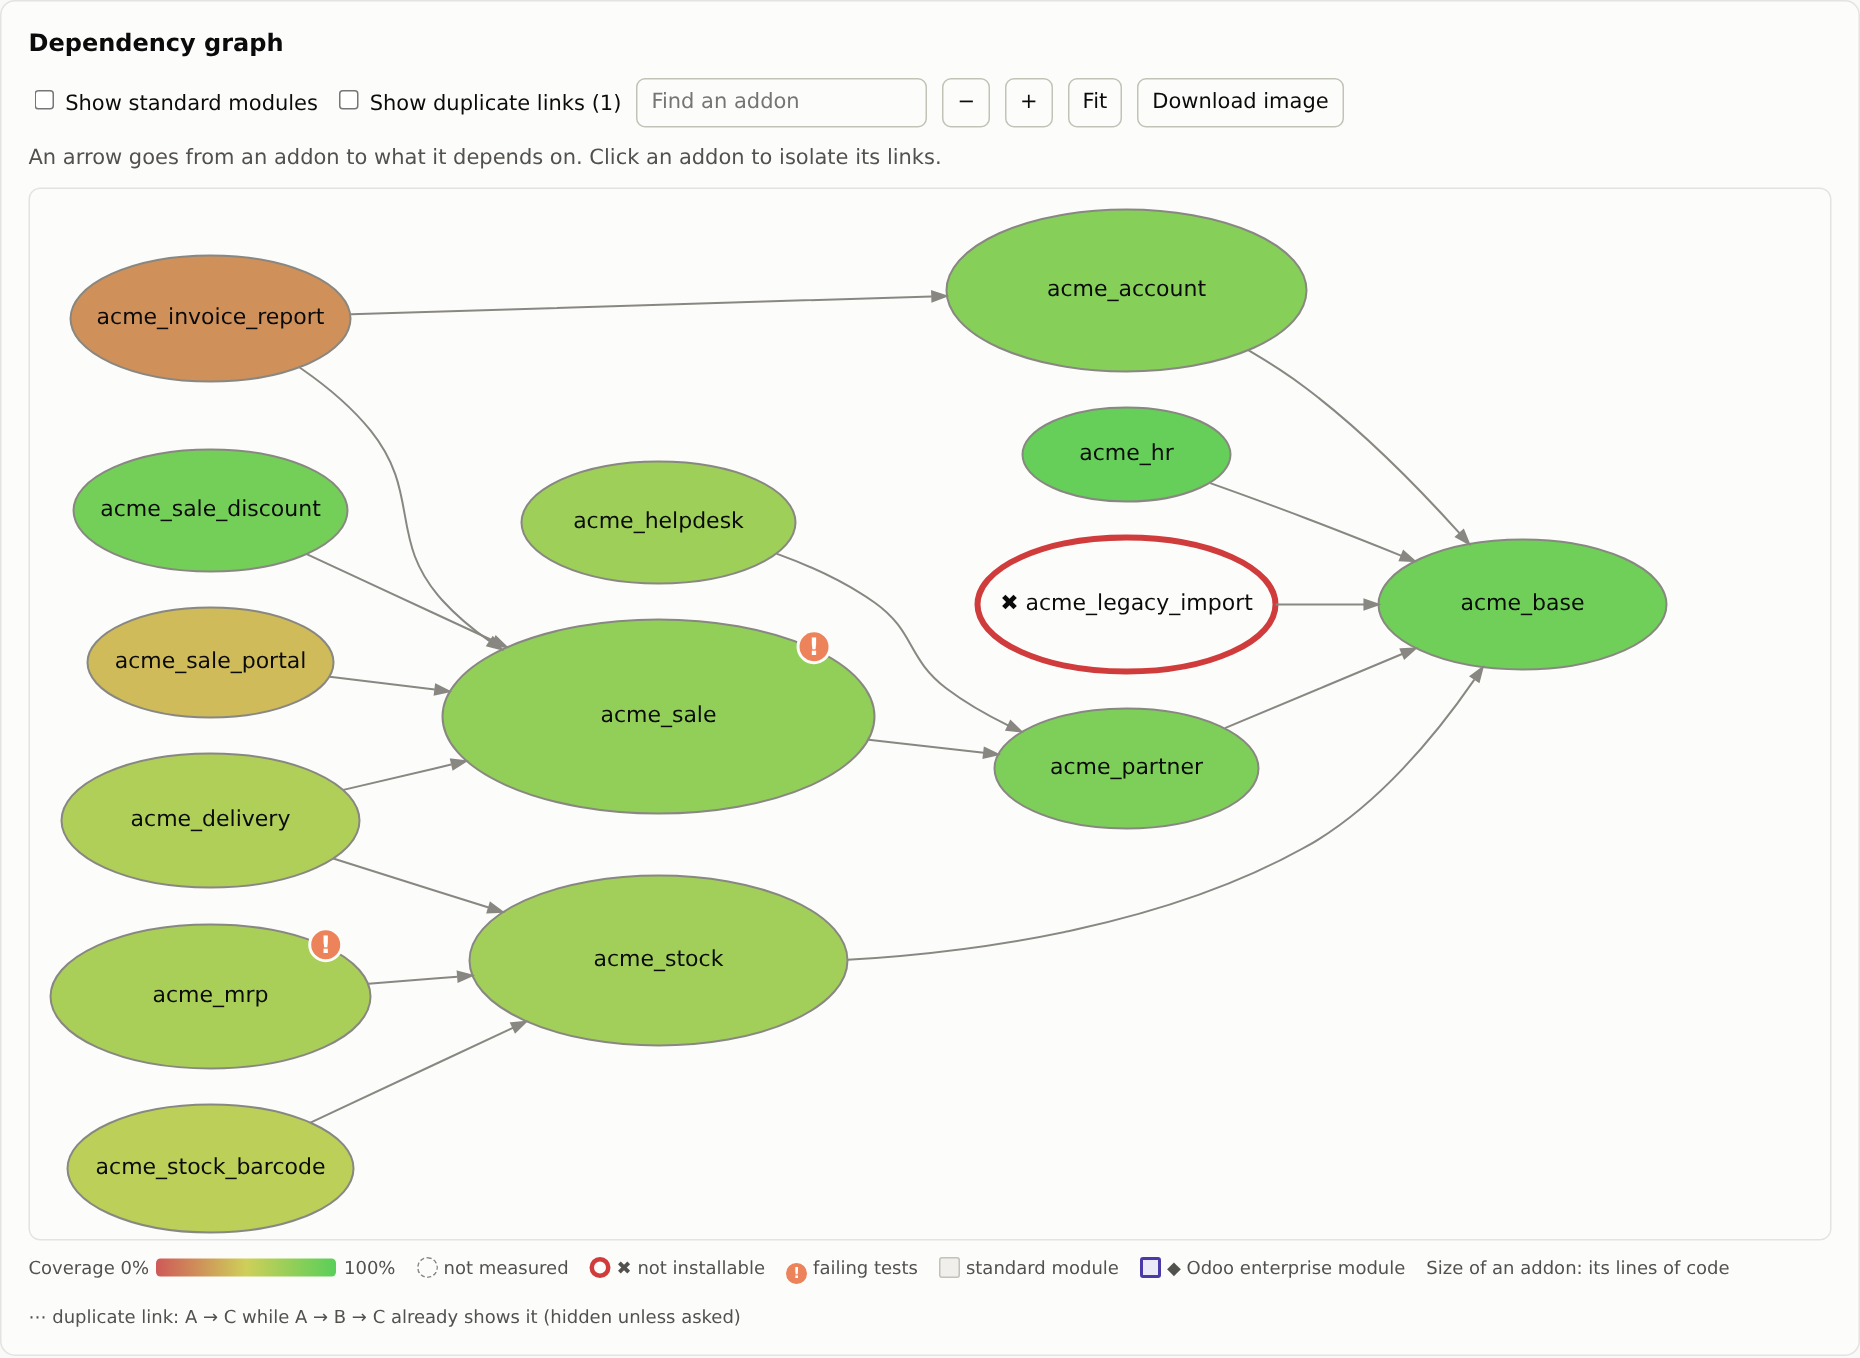
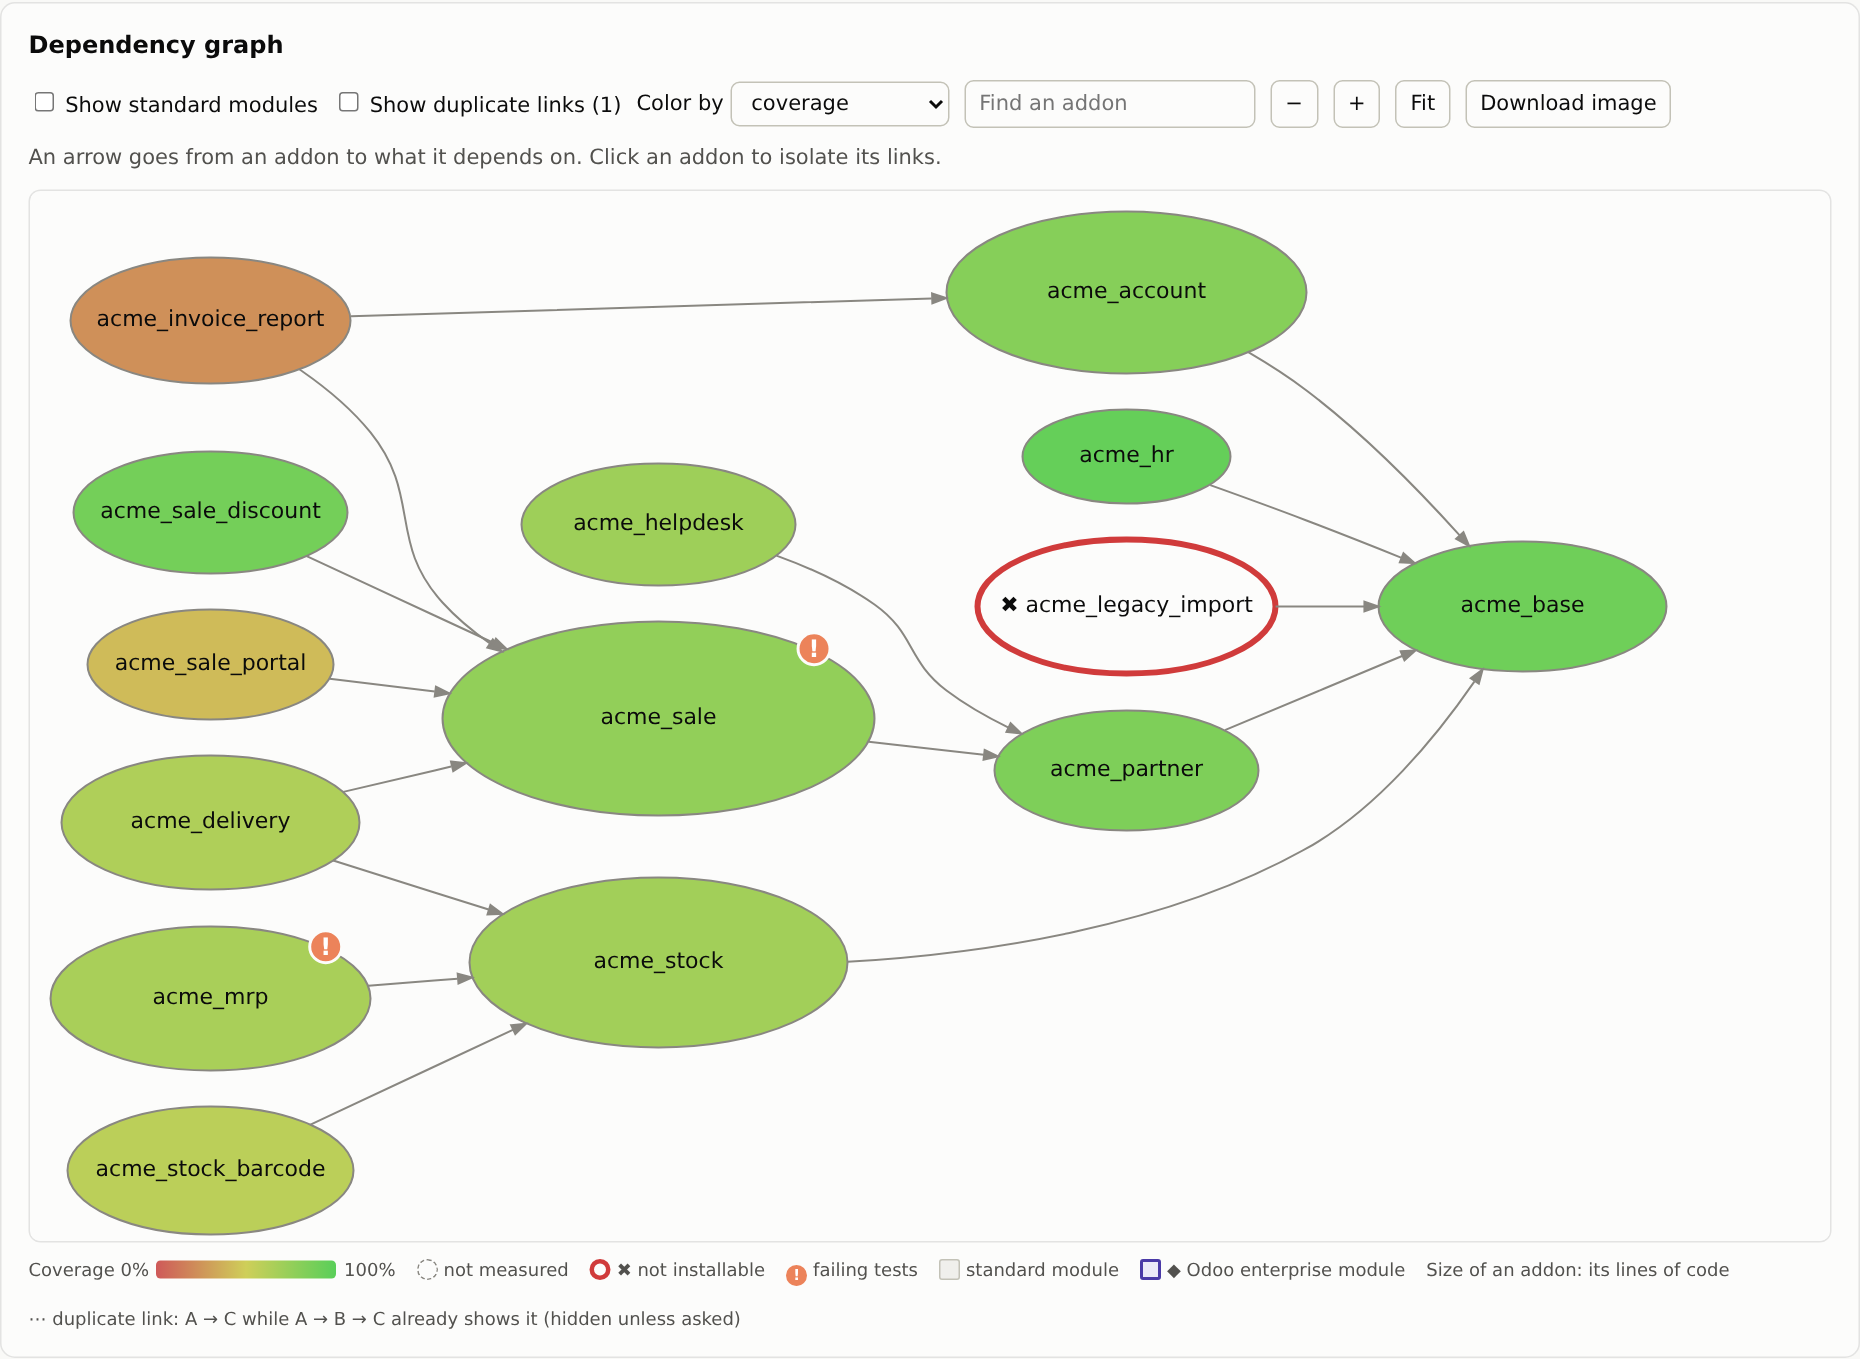
report: the dependency graph colored by the mutation score, on demand
Once jsa mutation was run, "Color by" offers the mutation score of all the changes
instead of the coverage (the default), with the same colors; an addon never run by
jsa mutation stays blank. The tooltip gives both mutation scores. 0.42.0.

diff --git a/jsa/structure/report_html.py b/jsa/structure/report_html.py
@@ -171,7 +171,7 @@ if (table) {
   search.addEventListener('input', filter); only.addEventListener('change', filter);
 }
 // ----- graph (graphviz names its root group "graph": the container is "depgraph", the styled svg is "dg")
-const SVG = 'http://www.w3.org/2000/svg', DUPLICATES = new Set(D.duplicates);
+const SVG = 'http://www.w3.org/2000/svg', DUPLICATES = new Set(D.duplicates), painted = [];  // [ellipse, addon]
 document.querySelectorAll('.depgraph').forEach(box => {
   const svg = box.querySelector('svg'), nodes = {}, edges = [];
   svg.classList.add('dg');
@@ -187,7 +187,7 @@ document.querySelectorAll('.depgraph').forEach(box => {
     }
     g.classList.add(a.status);
     const shape = g.querySelector('ellipse'), text = g.querySelector('text');
-    if (a.color) shape.style.fill = a.color;  // coverage: red -> green
+    painted.push([shape, a]);  // filled by its coverage, or its mutation score: red -> green (see paint)
     if (a.status === 'not_installable') text.textContent = '✖ ' + text.textContent;
     if (a.status === 'failing') {  // a flag on the addon, its color still shows the coverage
       const flag = document.createElementNS(SVG, 'g'), dot = document.createElementNS(SVG, 'circle'), mark = document.createElementNS(SVG, 'text');
@@ -228,6 +228,8 @@ document.querySelectorAll('.depgraph').forEach(box => {
   };
   box.zoom(0);
 });
+const paint = by => painted.forEach(([shape, a]) => shape.style.fill = a[by] || '');  // none: not measured
+paint('color');
 // ----- security review, mutation testing: the lines to copy into reviewed.toml
 document.querySelectorAll('button.copy').forEach(btn => btn.addEventListener('click', () => {
   const text = btn.dataset.copy, label = btn.textContent;
@@ -259,6 +261,13 @@ if (std) {
     document.getElementById('dupcount').textContent = ` (${count})`;
   };
   std.addEventListener('change', show); dup.addEventListener('change', show); show();
+  const colorby = document.getElementById('colorby');
+  if (colorby) colorby.addEventListener('change', () => {
+    const chosen = colorby.selectedOptions[0];
+    paint(colorby.value);
+    document.getElementById('colorname').textContent = chosen.dataset.name;
+    document.getElementById('colornone').textContent = chosen.dataset.none;
+  });
   document.getElementById('gsearch').addEventListener('input', e => graphs().forEach(b => b.find(e.target.value.trim().toLowerCase())));
   document.querySelectorAll('[data-zoom]').forEach(btn => btn.addEventListener('click', () => graphs().forEach(b => b.zoom(parseFloat(btn.dataset.zoom)))));
   // the graph as shown (standard modules or not, current selection) as a PNG image, twice its size to stay sharp
@@ -339,8 +348,8 @@ def _tests_html(entry: dict, newly: int = 0) -> str:
     return main + line
 
 
-def _tip(entry: dict) -> str:
-    """Tooltip of an addon in the graph."""
+def _tip(entry: dict, mutation: Optional[dict] = None) -> str:
+    """Tooltip of an addon in the graph. mutation: the result of its last jsa mutation."""
     state = report.status(entry)
     parts = [STATUS[state][0].lower()]
     if isinstance(entry.get('coverage'), int) and entry['coverage'] >= 0:
@@ -349,6 +358,10 @@ def _tip(entry: dict) -> str:
     if state in ('ok', 'failing'):
         tests = entry.get('tests', 0)
         parts.append(f"{tests} test{'s' if tests != 1 else ''}" + (f", {len(entry['failed'])} failed" if entry.get('failed') else ""))
+    if mutation and mutation_score_all(mutation) is not None:
+        reached = mutation_score(mutation)
+        parts.append(f"mutation score {mutation_score_all(mutation)}% of all the changes"
+                     + (f" ({reached}% of those reached)" if reached is not None else ""))
     return ", ".join(parts + [f"{entry.get('loc', 0):,} lines"])
 
 
@@ -778,7 +791,9 @@ def _seconds(seconds: float) -> str:
     return f"{seconds}s" if seconds < 60 else f"{seconds // 60}m{seconds % 60:02d}s"
 
 
-def _graph(graphs: dict) -> str:
+def _graph(graphs: dict, mutation: bool = False) -> str:
+    """mutation: results of jsa mutation exist: the addons can be colored by their mutation score instead of their
+    coverage (the user's request 2026-11-27: the same colors, of all the changes; the coverage stays the default)."""
     if not graphs.get('custom'):
         return ('<section><h2>Dependency graph</h2><span class="meta">Not drawn: graphviz is not installed '
                 '(<code>sudo apt install graphviz</code>, then run the command again).</span></section>')
@@ -786,14 +801,17 @@ def _graph(graphs: dict) -> str:
             '<label><input type="checkbox" id="std"> Show standard modules</label>'
             '<label title="A link A → C is a duplicate when the graph already shows another path, e.g. A → B → C">'
             '<input type="checkbox" id="dup"> Show duplicate links<span id="dupcount"></span></label>'
+            + ('<label>Color by <select id="colorby"><option value="color" data-name="Coverage" data-none="not measured">'
+               'coverage</option><option value="mutation" data-name="Mutation score (of all the changes)" '
+               'data-none="not run by jsa mutation">mutation score</option></select></label>' if mutation else '') +
             '<input type="search" id="gsearch" placeholder="Find an addon" aria-label="Find an addon in the graph">'
             '<button data-zoom="0.8" aria-label="Zoom out">−</button><button data-zoom="1.25" aria-label="Zoom in">+</button>'
             '<button data-zoom="0">Fit</button><button id="download">Download image</button>'
             '<span class="meta" style="margin:0">An arrow goes from an addon to what it depends on. Click an addon to isolate its links.</span></div>'
             + "".join(f'<div class="depgraph" id="graph-{key.replace("_", "-")}">{graphs.get(key) or ""}</div>'
                       for key in ('custom', 'all', 'custom_dup', 'all_dup')) +
-            '<div class="legend"><span>Coverage 0%<span class="grad"></span>100%</span>'
-            '<span><i style="background:#fcfcfb;border-style:dashed"></i>not measured</span>'
+            '<div class="legend"><span><span id="colorname">Coverage</span> 0%<span class="grad"></span>100%</span>'
+            '<span><i style="background:#fcfcfb;border-style:dashed"></i><span id="colornone">not measured</span></span>'
             '<span><i style="background:#fcfcfb;border:3px solid #d03b3b"></i>✖ not installable</span>'
             '<span><i class="dot">!</i>failing tests</span>'
             '<span><i style="background:#f0efec;border-radius:2px;border-color:#c3c2b7"></i>standard module</span>'
@@ -1074,8 +1092,11 @@ def render(state: dict, summary: dict, old_summary: Optional[dict], diff: Option
     """`runs`: the commits recorded by jsa backfill in the branch of the code, `events` those of backfill.toml."""
     measured = lambda e: isinstance(e.get('coverage'), int) and e['coverage'] >= 0
     enterprise = report.enterprise_dependencies(state)
+    mutation = meta.get('mutation') or {}
+    score = lambda name: mutation_score_all(mutation[name]) if name in mutation else None
     data = {'addons': {name: {'status': report.status(e), 'color': coverage_color(e['coverage']) if measured(e) else None,
-                              'tip': _tip(e)} for name, e in state.items()},
+                              'mutation': None if score(name) is None else coverage_color(score(name)),
+                              'tip': _tip(e, mutation.get(name))} for name, e in state.items()},
             'enterprise': sorted({module for e in state.values() for module in e.get('enterprise') or []}),
             'duplicates': graphs.get('duplicates', [])}
     when = meta['generated_at'][:16].replace('T', ' ')
@@ -1116,7 +1137,7 @@ def render(state: dict, summary: dict, old_summary: Optional[dict], diff: Option
         _security(state, reviewed, before, off),
         _mutation(meta.get('mutation') or {}, meta.get('reviewed_changes') or {}),
         _enterprise(enterprise, dict((diff or {}).get('enterprise_added', []))), _standard(meta.get('standard_tests')),
-        _table(state, enterprise, reviewed, meta.get('mutation'), diff, before), _graph(graphs),
+        _table(state, enterprise, reviewed, meta.get('mutation'), diff, before), _graph(graphs, bool(meta.get('mutation'))),
         '<footer>Files next to this report: <code>state.json</code> (last results, reused for unchanged addons), '
         '<code>runs/</code> (one file per commit recorded by <code>jsa backfill</code>: the trend), '
         '<code>coverage_odoo.log</code> (full Odoo log of the last measure).</footer>',

diff --git a/tests/test_structure.py b/tests/test_structure.py
@@ -1,3 +1,4 @@
+import json
 import os
 import subprocess
 from datetime import datetime, timezone
@@ -572,3 +573,22 @@ def test_the_x_axis_is_at_scale():
     assert '<polyline points="48.0,' in same and "1128.0," in same and 'class="date"' not in same
     near = report_html._trend([_run(1, 60.0, 12000), _run(3, 61.0, 12100)])  # 2 days: no date between them
     assert 'class="date"' not in near and '<polyline points="48.0,' in near
+
+
+def test_the_graph_can_color_the_addons_by_their_mutation_score():
+    state = {"a": {"coverage": 90, "tests": 2, "failed": [], "loc": 10, "depends": []},
+             "b": {"coverage": 40, "tests": 1, "failed": [], "loc": 10, "depends": ["a"]}}
+    mutants = [{"id": f"m{n}", "file": "models/a.py", "line": n, "function": "A.f", "op": "comparison", "original": "x > 1",
+                "mutated": "x <= 1", "status": s, "killers": []}
+               for n, s in enumerate(("killed", "killed", "killed", "survived", "not reached", "not reached"))]
+    graphs = {"custom": "<svg></svg>"}
+    meta = {"generated_at": "2026-01-01T10:00:00", "mutation": {"a": {"addon": "a", "mutants": mutants}}}
+    page = report_html.render(state, report.summarize(state), None, None, None, [], [], graphs, meta)
+    data = json.loads(page.split('<script type="application/json" id="data">')[1].split("</script>")[0])
+    a, b = data["addons"]["a"], data["addons"]["b"]
+    assert a["color"] == report_html.coverage_color(90) and a["mutation"] == report_html.coverage_color(50)  # 3 of 6
+    assert b["mutation"] is None  # not run by jsa mutation: no color
+    assert "mutation score 50% of all the changes (75% of those reached)" in a["tip"]
+    assert '<select id="colorby">' in page and 'data-name="Mutation score (of all the changes)"' in page
+    without = report_html.render(state, report.summarize(state), None, None, None, [], [], graphs, {"generated_at": "2026-01-01T10:00:00"})
+    assert 'id="colorby"' not in without and '<span id="colorname">Coverage</span>' in without  # coverage only

diff --git a/docs/guide.md b/docs/guide.md
@@ -188,7 +188,8 @@ it holds and what changed: a click opens one), then the table of the addons and 
 
 - **The dependency graph**, with or without the standard modules. Color = coverage, size = lines of code, ✖ = not
   installable, ! = failing tests. "Duplicate links" (A → C when A → B → C already shows it) are hidden unless asked.
-  "Download image" saves the graph as shown.
+  Once `jsa mutation` was run, "Color by" offers the mutation score instead of the coverage (of all the changes, the
+  same colors; an addon `jsa mutation` never measured stays blank). "Download image" saves the graph as shown.
 
 ![Dependency graph](images/report_graph.png)
 
